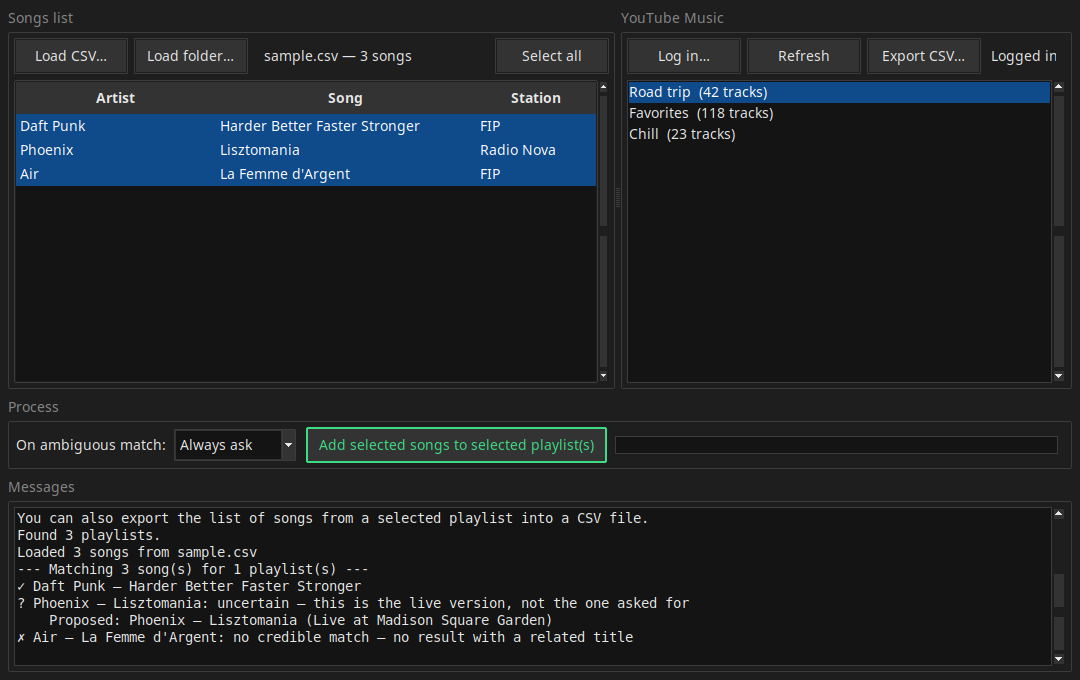
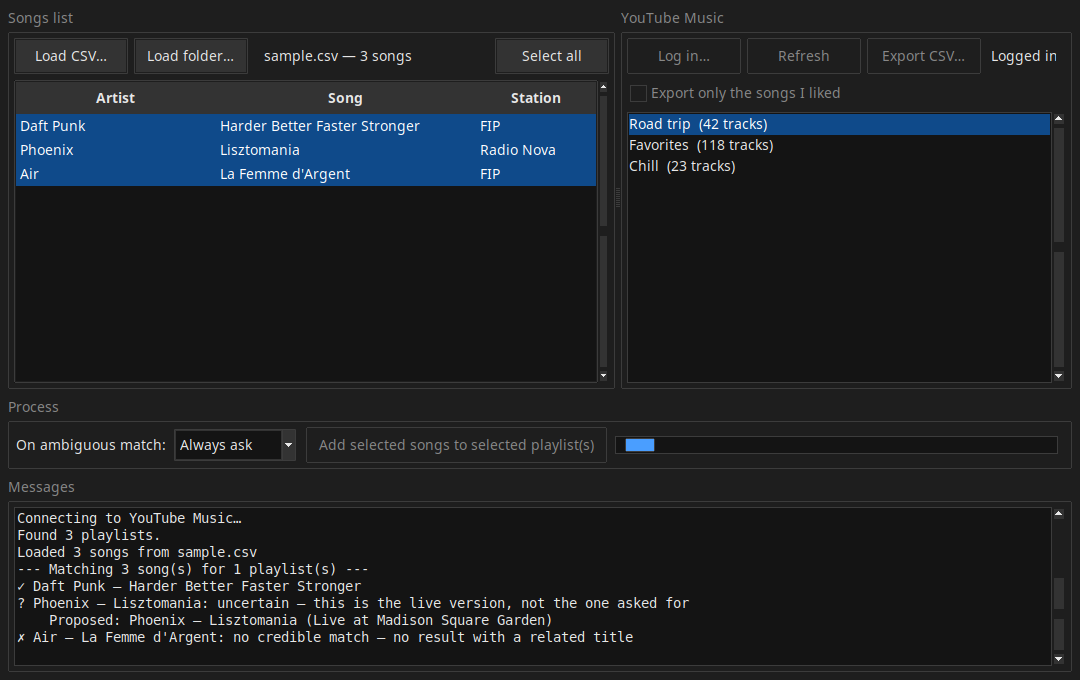
Let the user export only the songs they liked
A new "Export only the songs I liked" checkbox under the YouTube Music buttons
narrows each exported CSV to the tracks whose likeStatus is "LIKE". Not liked,
disliked and missing statuses are all left out. get_playlist already returns
likeStatus per track, so the filter costs no extra call.

A like belongs to one videoId: liking the music video doesn't mark the audio
upload of the same song in a playlist. That matches what YouTube Music itself
shows, so the export doesn't try to paper over it.

A playlist with nothing liked gets no file, just a log line, instead of a CSV
holding only a header. The log reports "N liked of M tracks" so the filter is
visible.

The checkbox is in busy_controls: it is read when Export starts, so leaving it
live during a run would suggest it could still change the running export. It
sits on its own line rather than beside Export CSV… because there it clipped
the account label ("Not logged in", "Login expired? Re-log in.") at the default
window width. docs/screenshot.png is regenerated for the new row.

Checked by hand against a real account: the exported CSV held exactly the
liked songs.

Changed region(s): [[0.5806, 0.0618, 0.9778, 0.2471], [0.275, 0.6176, 0.6111, 0.6794], [0.0306, 0.7412, 0.6111, 0.7721]]

diff --git a/cratefill/app.py b/cratefill/app.py
@@ -594,6 +594,12 @@ class CratefillApp:
         self.account_label = ttk.Label(right_top, text="Not logged in")
         self.account_label.pack(side="left", padx=8)
 
+        self.liked_only_var = tk.BooleanVar(value=False)
+        self.liked_only_check = ttk.Checkbutton(
+            right, text="Export only the songs I liked", variable=self.liked_only_var
+        )
+        self.liked_only_check.pack(anchor="w", pady=(0, 6))
+
         self.playlist_list = tk.Listbox(
             right, selectmode="extended", exportselection=False, **DARK_LIST_STYLE
         )
@@ -637,6 +643,7 @@ class CratefillApp:
         # a job by _start_work — see there for why Log in and Refresh count.
         self.busy_controls = (
             self.add_button, self.export_button, self.login_button, self.refresh_button,
+            self.liked_only_check,  # read when Export starts; changing it mid-run would do nothing
         )
 
     # ---------- Ambiguous-match policy ----------
@@ -966,10 +973,13 @@ class CratefillApp:
         dest = filedialog.askdirectory(title="Choose where to save the CSV file(s)")
         if not dest:
             return
+        liked_only = self.liked_only_var.get()
         self._start_work(maximum=len(selected))
-        self.log(f"--- Exporting {len(selected)} playlist(s) to {dest} ---")
+        what = "liked songs of " if liked_only else ""
+        self.log(f"--- Exporting {what}{len(selected)} playlist(s) to {dest} ---")
         threading.Thread(
-            target=self._export_worker, args=(self.yt, selected, dest), daemon=True
+            target=self._export_worker, args=(self.yt, selected, dest, liked_only),
+            daemon=True,
         ).start()  # snapshot self.yt — see add_songs
 
     def _start_work(self, maximum=None):
@@ -1033,13 +1043,15 @@ class CratefillApp:
             finally:                              # still off the UI thread
                 put(("done", None))
 
-    def _export_worker(self, yt, playlists, dest):
+    def _export_worker(self, yt, playlists, dest, liked_only):
         """Background thread entry point: always reports completion.
 
         See _worker for why the try/finally is not optional.
         """
         try:
-            youtube.export_playlists_to_csv(yt, playlists, dest, self.worker_queue.put)
+            youtube.export_playlists_to_csv(
+                yt, playlists, dest, self.worker_queue.put, liked_only=liked_only
+            )
         except Exception as e:
             self.worker_queue.put(
                 ("log", f"✗ Unexpected error while exporting: {type(e).__name__}: {e}")

diff --git a/tests/test_workers.py b/tests/test_workers.py
@@ -222,6 +222,50 @@ class Stub:
         return out
 
 
+def track(title, like_status):
+    return {"videoId": "v-" + title, "title": title,
+            "artists": [{"name": "Phoenix"}], "likeStatus": like_status}
+
+
+class TestExportPlaylistsToCsv:
+    TRACKS = [track("Lisztomania", "LIKE"), track("1901", "INDIFFERENT"),
+              track("Fences", "DISLIKE"), track("Rome", None), track("Armistice", "LIKE")]
+
+    @staticmethod
+    def exported_titles(dest):
+        (path,) = dest.glob("*.csv")
+        rows = path.read_text(encoding="utf-8").splitlines()[1:]
+        return [row.split(",")[1] for row in rows]
+
+    def test_exports_every_track_by_default(self, tmp_path):
+        youtube.export_playlists_to_csv(
+            FakeYT(existing_tracks=self.TRACKS), [PLAYLIST], tmp_path, [].append
+        )
+        assert self.exported_titles(tmp_path) == [
+            "Lisztomania", "1901", "Fences", "Rome", "Armistice"
+        ]
+
+    def test_liked_only_keeps_just_the_liked_tracks(self, tmp_path):
+        """Not liked, disliked and unknown (None) are all left out."""
+        out = []
+        youtube.export_playlists_to_csv(
+            FakeYT(existing_tracks=self.TRACKS), [PLAYLIST], tmp_path, out.append,
+            liked_only=True,
+        )
+        assert self.exported_titles(tmp_path) == ["Lisztomania", "Armistice"]
+        assert any("2 liked of 5 tracks" in line for line in kinds(out, "log"))
+
+    def test_liked_only_writes_no_file_when_nothing_is_liked(self, tmp_path):
+        out = []
+        youtube.export_playlists_to_csv(
+            FakeYT(existing_tracks=[track("1901", "INDIFFERENT")]), [PLAYLIST],
+            tmp_path, out.append, liked_only=True,
+        )
+        assert list(tmp_path.glob("*.csv")) == []
+        assert any("No liked songs in 'Road trip'" in line for line in kinds(out, "log"))
+        assert kinds(out, "step") == [None], "the progress bar must still advance"
+
+
 class TestCompletionGuarantee:
     """The Add/Export buttons only come back on ("done", …); a worker that dies
     without emitting it leaves the UI disabled until restart."""
@@ -229,7 +273,7 @@ class TestCompletionGuarantee:
     @pytest.mark.parametrize("worker, args", [
         ("_worker", ("songs", "playlists")),
         ("_add_worker", (["v1"], "playlists")),
-        ("_export_worker", ("playlists", "dest")),
+        ("_export_worker", ("playlists", "dest", False)),
     ])
     def test_done_is_emitted_even_when_the_work_explodes(self, worker, args, monkeypatch):
         def boom(*a, **k):

diff --git a/cratefill/youtube.py b/cratefill/youtube.py
@@ -270,13 +270,26 @@ def add_video_ids_to_playlists(yt, video_ids, playlists, put):
     put(("log", "--- Done. ---"))
 
 
-def export_playlists_to_csv(yt, playlists, dest, put):
-    """Fetch each playlist's tracks and write a CSV per playlist."""
+def export_playlists_to_csv(yt, playlists, dest, put, liked_only=False):
+    """Fetch each playlist's tracks and write a CSV per playlist.
+
+    With liked_only, keep just the tracks whose likeStatus is "LIKE". A like
+    belongs to one videoId, so liking another upload of the same song doesn't
+    count. A playlist with no liked tracks gets no file.
+    """
     for pl in playlists:
         try:
-            tracks = yt.get_playlist(pl["playlistId"], limit=None).get("tracks", [])
-            path = write_playlist_csv(pl["title"], tracks, dest)
-            put(("log", f"→ Saved '{pl['title']}' ({len(tracks)} tracks) to {path.name}"))
+            tracks = yt.get_playlist(pl["playlistId"], limit=None).get("tracks") or []
+            if not liked_only:
+                path = write_playlist_csv(pl["title"], tracks, dest)
+                put(("log", f"→ Saved '{pl['title']}' ({len(tracks)} tracks) to {path.name}"))
+            elif liked := [t for t in tracks if t.get("likeStatus") == "LIKE"]:
+                path = write_playlist_csv(pl["title"], liked, dest)
+                put(("log", f"→ Saved '{pl['title']}' ({len(liked)} liked of "
+                            f"{len(tracks)} tracks) to {path.name}"))
+            else:
+                put(("log", f"→ No liked songs in '{pl['title']}' "
+                            f"({len(tracks)} tracks), nothing saved"))
         except Exception as e:
             put(("log", f"→ Failed to export '{pl['title']}': {e}"))
         put(("step", None))
